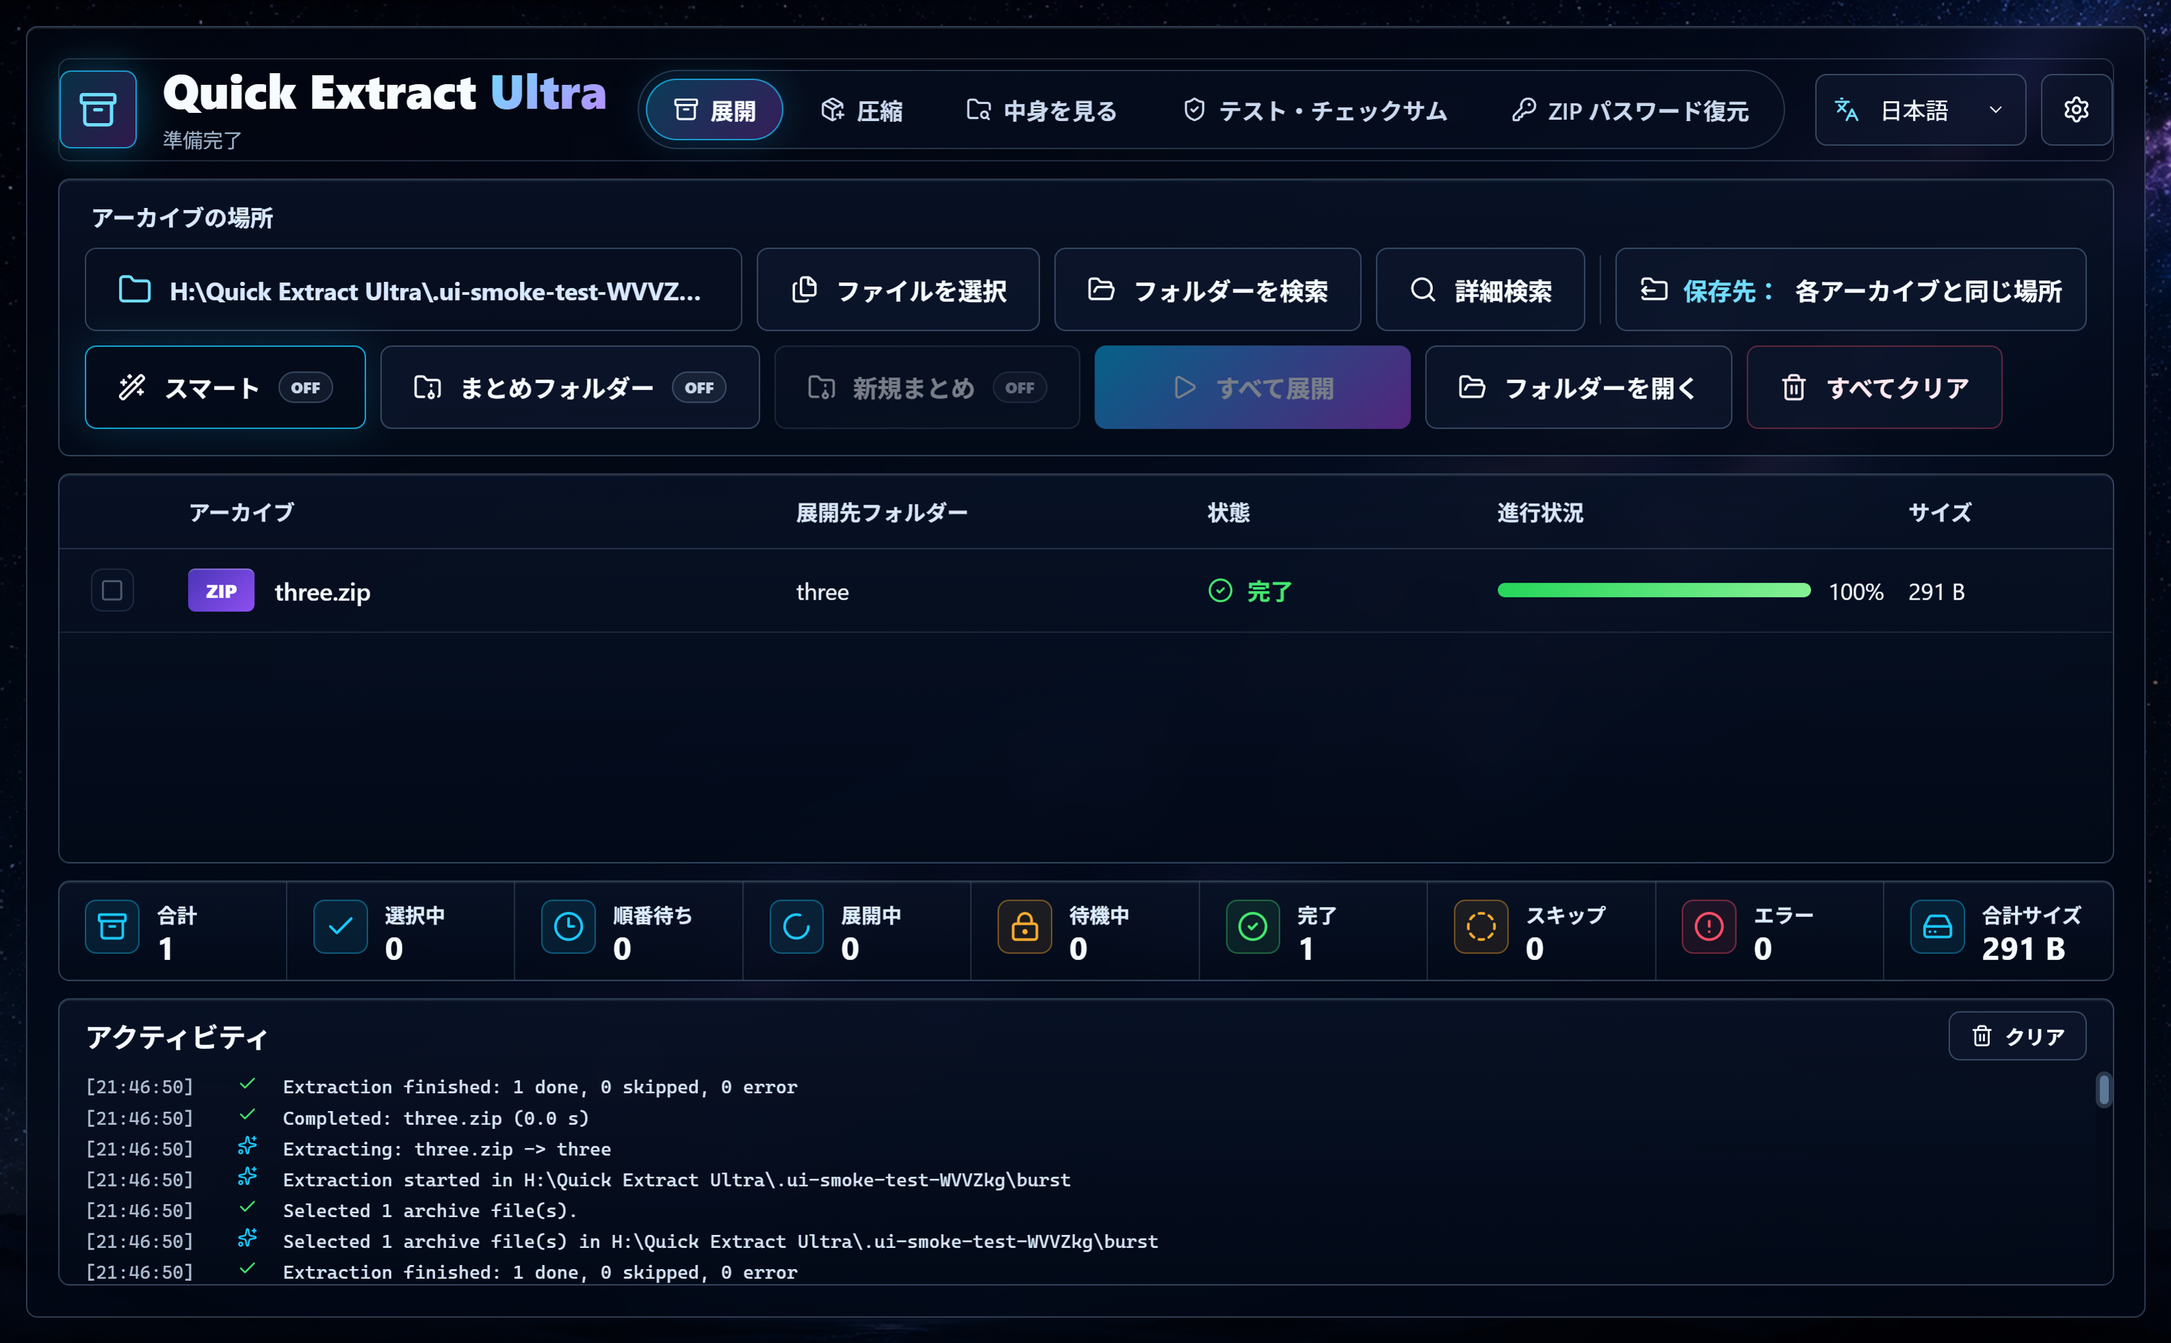
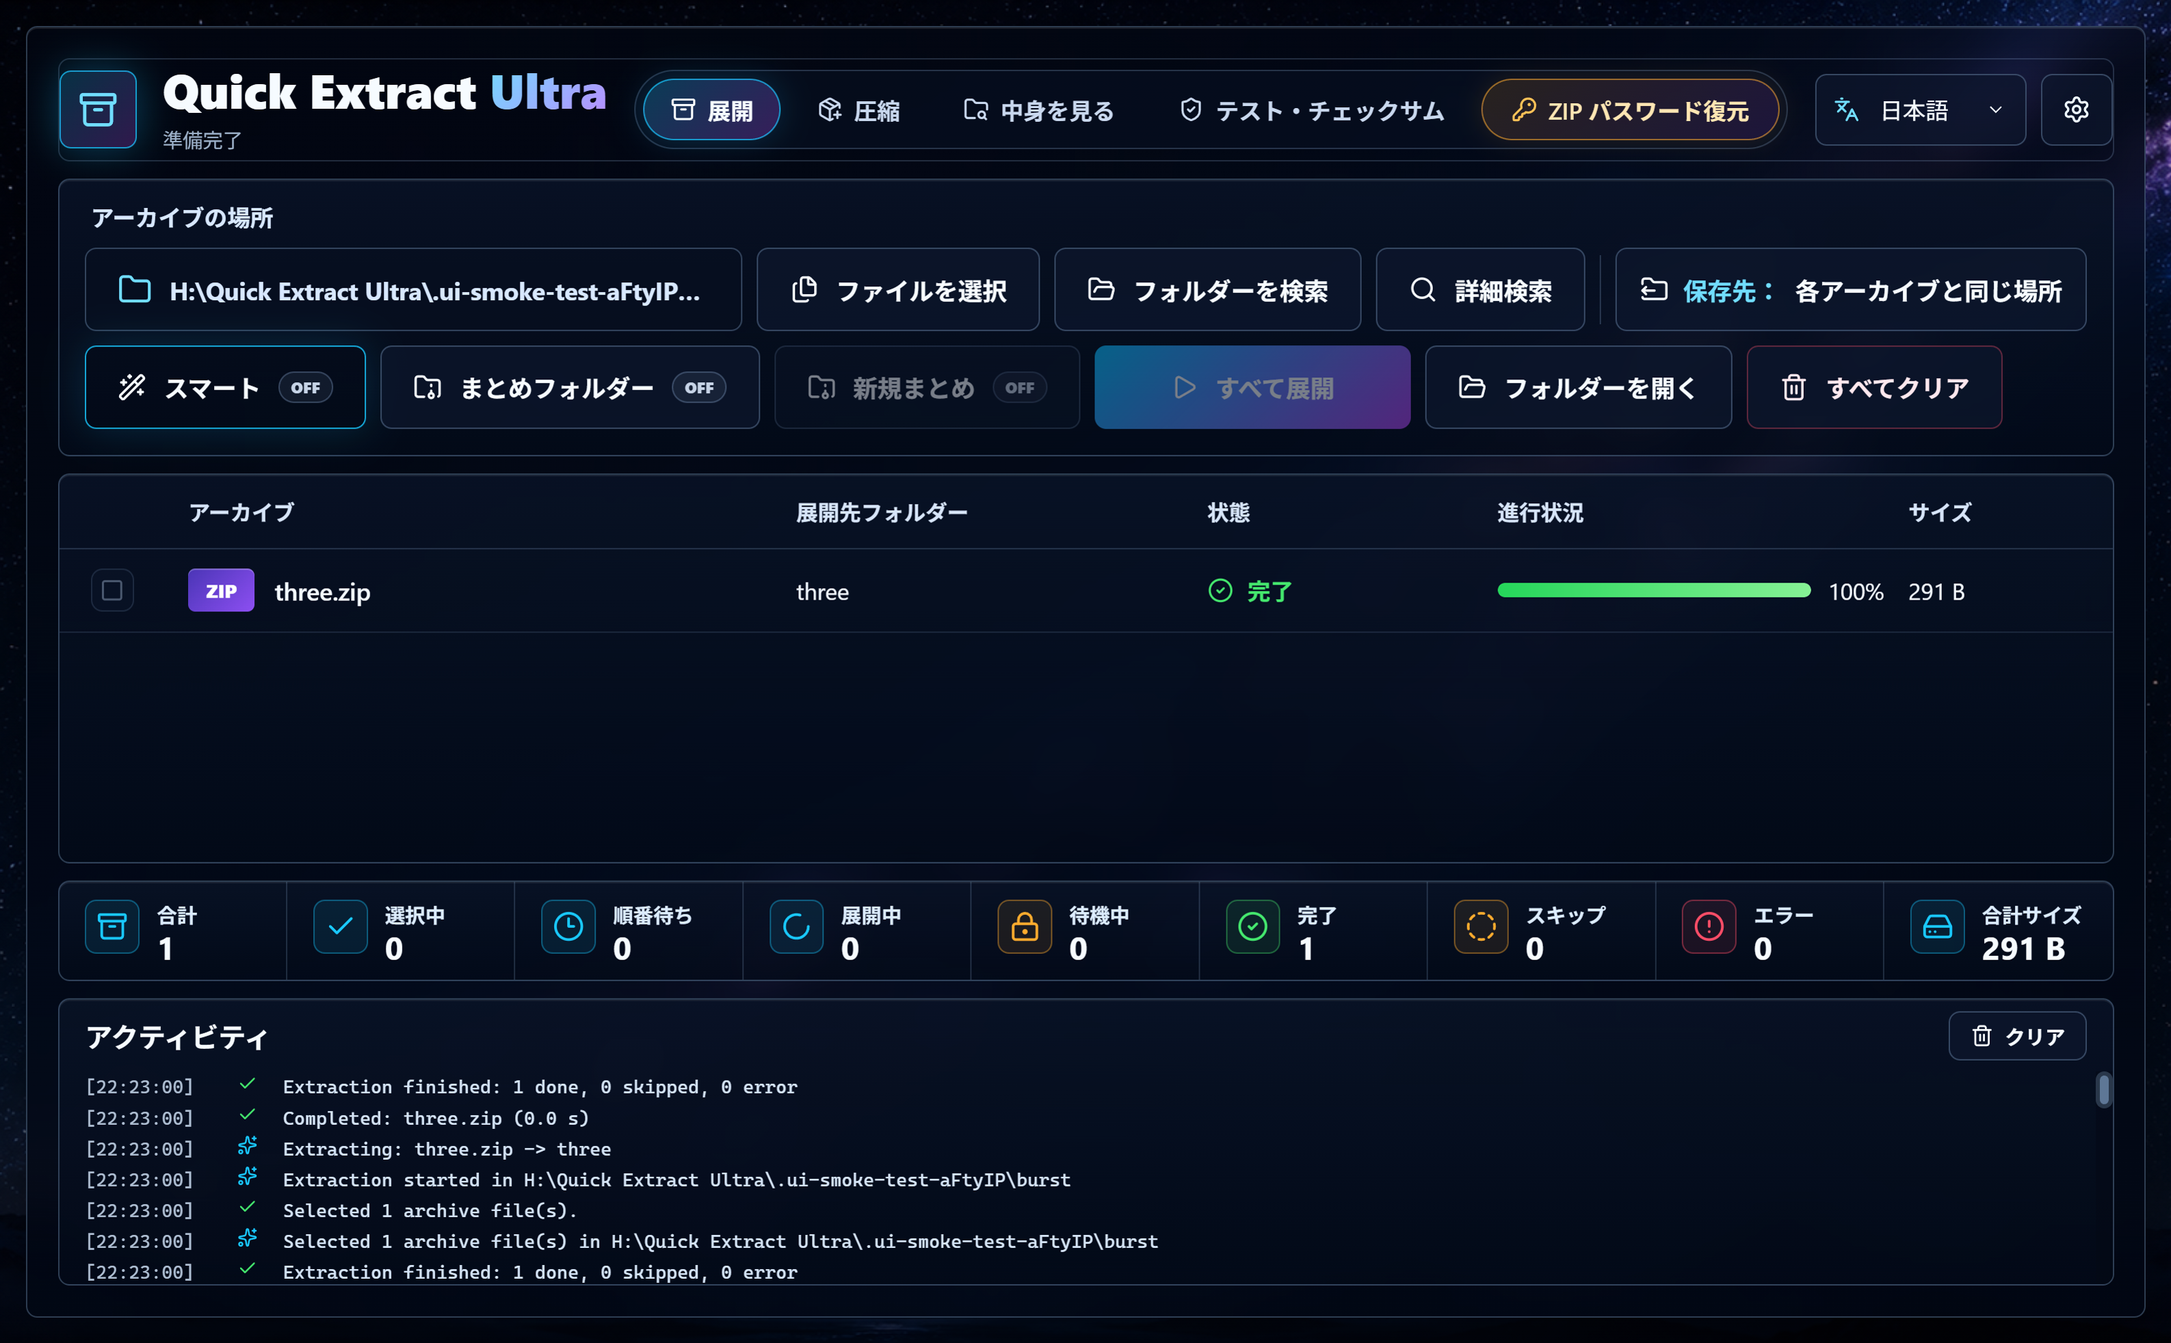
Recovery: first-run setup screen, highlighted tab, auto-download all
- Highlight the "Recover ZIP password" tab (amber frame, key icon).
- First-run (no tools yet): show a setup screen with "Download all
  automatically", "Add them myself", and a (?) explaining why the tools
  are needed and how to download safely, instead of the full UI.
- Auto-download now covers all three tools from their OFFICIAL sources
  over HTTPS: bkcrack via its GitHub release (SHA-256 verified against
  GitHub's digest), hashcat (hashcat.net) and John (openwall.com) via
  their official download pages. Those two publish a PGP signature, not
  a machine-checkable checksum, so they are not checksum-gated; the
  SHA-256 is recorded for the user to verify later. Manual stays available.

Verified: real John 1.9.0-jumbo-1 auto-download + extract + detect from
openwall.com; scrape resolvers; 42/42 tests; UI smoke test.

diff --git a/src/RecoverView.tsx b/src/RecoverView.tsx
@@ -7,9 +7,11 @@ import {
   ClipboardCopy,
   Cpu,
   Download,
+  DownloadCloud,
   ExternalLink,
   FileKey,
   FolderOpen,
+  HelpCircle,
   Key,
   KeyRound,
   LoaderCircle,
@@ -17,6 +19,8 @@ import {
   Play,
   ShieldAlert,
   Square,
+  Wrench,
+  X,
   Zap
 } from 'lucide-react';
 import { useT, type Translate } from './i18n';
@@ -81,6 +85,12 @@ export default function RecoverView({ addLog }: Props) {
   const [copied, setCopied] = useState(false);
   const extractedRef = useRef('');
 
+  const [manualChosen, setManualChosen] = useState(false);
+  const [settingUp, setSettingUp] = useState(false);
+  const [setupProgress, setSetupProgress] = useState<{ toolId: string; phase: string; percent: number } | null>(null);
+  const [setupSummary, setSetupSummary] = useState('');
+  const [showInfo, setShowInfo] = useState(false);
+
   const refreshTools = async () => {
     const result = await window.quickExtract.listTools();
     if (result.ok) {
@@ -91,8 +101,9 @@ export default function RecoverView({ addLog }: Props) {
 
   useEffect(() => { void refreshTools(); }, []);
   useEffect(() => window.quickExtract.onToolProgress((event) => {
-    if (event.toolId === downloading) setDownloadProgress({ phase: event.phase, percent: event.percent });
-  }), [downloading]);
+    setDownloadProgress({ phase: event.phase, percent: event.percent });
+    setSetupProgress({ toolId: event.toolId, phase: event.phase, percent: event.percent });
+  }), []);
 
   useEffect(() => window.quickExtract.onRecoveryEvent((event: RecoveryEvent) => {
     switch (event.type) {
@@ -159,6 +170,26 @@ export default function RecoverView({ addLog }: Props) {
     }
   };
 
+  const autoSetup = async () => {
+    setSettingUp(true);
+    setSetupSummary('');
+    setSetupProgress(null);
+    setMessage('');
+    const result = await window.quickExtract.setupAllTools(true);
+    setSettingUp(false);
+    if (result.ok) {
+      const added = result.value.filter((r) => r.ok && !r.skipped);
+      const failed = result.value.filter((r) => !r.ok);
+      setSetupSummary(t('recover.setupSummary', { added: added.length, failed: failed.length }));
+      if (added.length) addLog('done', t('recover.setupDone', { names: added.map((r) => r.toolId).join(', ') }));
+      if (failed.length) addLog('error', t('recover.setupFailed', { names: failed.map((r) => r.toolId).join(', ') }));
+      await refreshTools();
+    } else {
+      setMessage(result.message);
+      addLog('error', result.message);
+    }
+  };
+
   const start = async () => {
     setFound(null);
     setMessage('');
@@ -205,9 +236,71 @@ export default function RecoverView({ addLog }: Props) {
   const anyToolReady = Boolean(tool('john')?.installed) || canBkcrack;
 
   const progressPercent = progress.percent != null ? Math.max(0, Math.min(100, progress.percent)) : null;
+  const anyInstalled = Boolean(toolList?.tools.some((item) => item.installed));
+  const showSetup = Boolean(toolList) && !anyInstalled && !manualChosen;
+
+  const infoModal = showInfo && (
+    <div className="recover-modal-backdrop" onClick={() => setShowInfo(false)}>
+      <div className="recover-modal" role="dialog" aria-modal="true" onClick={(event) => event.stopPropagation()}>
+        <header className="picker-header">
+          <h2><HelpCircle size={20} className="accent-icon" />{t('recover.infoTitle')}</h2>
+          <button type="button" onClick={() => setShowInfo(false)} aria-label={t('common.close')}><X /></button>
+        </header>
+        <div className="recover-modal-body">
+          <h3>{t('recover.infoWhyTitle')}</h3>
+          <p>{t('recover.infoWhy')}</p>
+          <h3>{t('recover.infoSafetyTitle')}</h3>
+          <p>{t('recover.infoSafety')}</p>
+          <ul className="muted">
+            {toolList?.tools.map((item) => (
+              <li key={item.id}><strong>{item.name}</strong> ({item.license}) — {item.page}</li>
+            ))}
+          </ul>
+          <p className="muted small-print">{t('recover.infoAutoNote')}</p>
+        </div>
+      </div>
+    </div>
+  );
+
+  if (showSetup) {
+    return (
+      <div className="recover-view setup">
+        <p className="ownership-note" role="note"><ShieldAlert size={18} />{t('recover.ownership')}</p>
+        <section className="recover-setup">
+          <KeyRound size={46} className="accent-icon" />
+          <h2>{t('recover.setupTitle')}</h2>
+          <p className="setup-intro">{t('recover.setupIntro')}</p>
+          <div className="setup-choices">
+            <button className="primary-button wide setup-auto" type="button" data-action="setup-auto" onClick={() => void autoSetup()} disabled={settingUp}>
+              {settingUp ? <LoaderCircle size={20} className="spin" /> : <DownloadCloud size={20} />}
+              {t('recover.setupAuto')}
+            </button>
+            <button className="secondary-button setup-manual" type="button" onClick={() => setManualChosen(true)} disabled={settingUp}>
+              <Wrench size={18} />{t('recover.setupManual')}
+            </button>
+            <button className="icon-button info-button" type="button" onClick={() => setShowInfo(true)} aria-label={t('recover.infoTitle')} title={t('recover.infoTitle')}>
+              <HelpCircle size={22} />
+            </button>
+          </div>
+          <p className="setup-sizes muted">{toolList?.tools.map((item) => `${item.name} ~${item.approxSizeMb} MB`).join(' · ')}</p>
+          <p className="setup-auto-note muted small-print">{t('recover.autoRiskNote')}</p>
+          {settingUp && setupProgress && (
+            <div className="setup-progress">
+              <div className="status-line"><LoaderCircle size={16} className="spin" /><span>{t('recover.setupDownloading', { name: setupProgress.toolId })} · {t(`recover.phase.${setupProgress.phase || 'download'}`, { percent: String(setupProgress.percent) })}</span></div>
+              <div className="progress-cell wide"><span className="progress-track"><span className="progress-fill" style={{ width: `${setupProgress.percent}%` }} /></span><span>{setupProgress.percent}%</span></div>
+            </div>
+          )}
+          {setupSummary && <p className="good-text">{setupSummary}</p>}
+          {message && <p className="picker-error" role="alert">{message}</p>}
+        </section>
+        {infoModal}
+      </div>
+    );
+  }
 
   return (
     <div className="recover-view">
+      {infoModal}
       <p className="ownership-note" role="note">
         <ShieldAlert size={18} />
         {t('recover.ownership')}
@@ -217,9 +310,17 @@ export default function RecoverView({ addLog }: Props) {
         <section className="tool-panel recover-tools" aria-label={t('recover.toolsTitle')}>
           <div className="panel-header">
             <h2><KeyRound size={20} className="accent-icon" />{t('recover.toolsTitle')}</h2>
-            <button className="secondary-button compact" type="button" onClick={() => void window.quickExtract.openToolsFolder()}>
-              <FolderOpen size={18} />{t('recover.openToolsFolder')}
-            </button>
+            <div className="panel-actions">
+              {!anyInstalled && (
+                <button className="secondary-button compact" type="button" onClick={() => void autoSetup()} disabled={settingUp}>
+                  {settingUp ? <LoaderCircle size={18} className="spin" /> : <DownloadCloud size={18} />}{t('recover.setupAutoShort')}
+                </button>
+              )}
+              <button className="icon-button small" type="button" onClick={() => setShowInfo(true)} aria-label={t('recover.infoTitle')} title={t('recover.infoTitle')}><HelpCircle size={18} /></button>
+              <button className="secondary-button compact" type="button" onClick={() => void window.quickExtract.openToolsFolder()}>
+                <FolderOpen size={18} />{t('recover.openToolsFolder')}
+              </button>
+            </div>
           </div>
           <p className="muted">{t('recover.toolsHint')}</p>
           {toolList?.tools.map((item) => (

diff --git a/src/App.css b/src/App.css
@@ -1945,3 +1945,71 @@ input:focus-visible,
 @media (max-width: 1100px) {
   .recover-grid { grid-template-columns: minmax(0, 1fr); grid-auto-rows: minmax(0, auto); }
 }
+
+/* The recovery tab stands apart from the plain tools. */
+.tab-button.tab-special {
+  padding: 9px 20px;
+  color: #ffe6b3;
+  border-color: rgba(255, 171, 46, 0.55);
+  background: linear-gradient(135deg, rgba(255, 171, 46, 0.14), rgba(169, 72, 232, 0.14));
+  box-shadow: 0 0 18px rgba(255, 171, 46, 0.12);
+}
+
+.tab-button.tab-special svg { color: #ffc257; }
+
+.tab-button.tab-special.active {
+  color: #fff6e6;
+  border-color: rgba(255, 193, 87, 0.95);
+  background: linear-gradient(135deg, rgba(255, 171, 46, 0.34), rgba(169, 72, 232, 0.4));
+  box-shadow: 0 0 26px rgba(255, 171, 46, 0.3);
+}
+
+.recover-setup {
+  display: grid;
+  justify-items: center;
+  align-content: center;
+  gap: 14px;
+  min-height: 0;
+  padding: 32px;
+  text-align: center;
+  border: 1px solid rgba(255, 171, 46, 0.3);
+  border-radius: var(--radius);
+  background: linear-gradient(180deg, rgba(9, 18, 38, 0.86), rgba(3, 10, 24, 0.76));
+}
+
+.recover-setup h2 { margin: 0; font-size: 26px; }
+.setup-intro { max-width: 620px; margin: 0; color: var(--muted); font-size: 15px; line-height: 1.6; }
+.setup-choices { display: flex; align-items: center; gap: 12px; flex-wrap: wrap; justify-content: center; margin-top: 6px; }
+.setup-auto { min-width: 280px; width: auto; }
+.setup-manual { min-width: 0; height: 50px; padding: 0 22px; display: inline-flex; align-items: center; gap: 8px; cursor: pointer; }
+.info-button { width: 50px; height: 50px; border-radius: 999px; }
+.setup-sizes { margin: 0; font-size: 13px; }
+.setup-auto-note { max-width: 680px; margin: 0; line-height: 1.5; }
+.setup-progress { width: min(560px, 100%); display: grid; gap: 8px; margin-top: 8px; }
+
+.recover-modal-backdrop {
+  position: fixed;
+  inset: 0;
+  z-index: 60;
+  display: grid;
+  place-items: center;
+  padding: 24px;
+  background: rgba(0, 3, 12, 0.72);
+  backdrop-filter: blur(4px);
+}
+
+.recover-modal {
+  width: min(680px, 100%);
+  max-height: 86vh;
+  overflow-y: auto;
+  border: 1px solid var(--line-strong);
+  border-radius: var(--radius);
+  background: #081226;
+  box-shadow: var(--shadow);
+}
+
+.recover-modal .picker-header { padding: 18px 22px; border-bottom: 1px solid var(--line); }
+.recover-modal-body { display: grid; gap: 10px; padding: 18px 22px 24px; }
+.recover-modal-body h3 { margin: 6px 0 0; font-size: 16px; color: var(--cyan-soft); }
+.recover-modal-body p { margin: 0; line-height: 1.6; }
+.recover-modal-body ul { margin: 2px 0; padding-left: 20px; display: grid; gap: 4px; overflow-wrap: anywhere; }

diff --git a/src/types.d.ts b/src/types.d.ts
@@ -248,6 +248,7 @@ declare global {
       openToolPage: (url: string) => Promise<void>;
       openToolsFolder: () => Promise<string>;
       downloadTool: (toolId: string, consent: boolean) => Promise<TaskResult<{ verified: boolean; sha256: string; checksumPublished: boolean; version: string; source: string }>>;
+      setupAllTools: (consent: boolean) => Promise<TaskResult<Array<{ toolId: string; ok: boolean; skipped?: boolean; verified?: boolean; sha256?: string; message?: string }>>>;
       onToolProgress: (callback: (event: ToolProgress) => void) => () => void;
       inspectZip: (zipPath: string) => Promise<TaskResult<ZipInspection>>;
       startRecovery: (options: RecoveryOptions) => Promise<TaskResult<boolean>>;

diff --git a/src/App.tsx b/src/App.tsx
@@ -713,7 +713,7 @@ function Workspace({ settings, onSettingsChange }: WorkspaceProps) {
               <button
                 key={id}
                 type="button"
-                className={`tab-button ${tab === id ? 'active' : ''}`}
+                className={`tab-button ${tab === id ? 'active' : ''} ${id === 'recover' ? 'tab-special' : ''}`}
                 aria-current={tab === id ? 'page' : undefined}
                 onClick={() => setTab(id)}
               >

diff --git a/CHANGELOG.md b/CHANGELOG.md
@@ -17,14 +17,15 @@ Version notes are required for every future app change. Each release should reco
   - **bkcrack** (zlib) for a legacy ZipCrypto archive when you still have one original file from inside it (fastest).
   - **hashcat** (MIT) on the GPU for AES ZIPs, John the Ripper jumbo (GPLv2+) on the CPU otherwise; wordlist first, then brute force by chosen charset/length.
   - The hash itself is read with John's `zip2john`, so John is the base tool; hashcat is an optional GPU accelerator; bkcrack is the standalone fast path.
+  - The recovery tab is visually set apart (amber frame, key icon, larger) from the plain tool tabs. When no tool is installed the tab opens a **first-run setup screen** (**Download all automatically**, **Add them myself**, and a circular **(?)** explaining why the tools are needed and how to download safely); the full UI appears once a tool is present.
   - UI: choose ZIP, known-file picker for ZipCrypto, wordlist selector (a small `common-passwords.txt` ships with the app), brute-force charset/length, device choice, progress with speed and ETA, Pause/Resume (via hashcat/John restore sessions) and Cancel, the found password with copy, and "Extract now".
-  - Tools are **not bundled**. Each has an opt-in automatic download (consent box with name, license, size and official source; SHA-256 verified against the source's published digest, discarded on mismatch) and an always-available manual button to the official page. The app never re-hosts the files; downloads go to `%APPDATA%\quick-extract-ultra	ools\`. Only bkcrack currently offers a verified automatic download; hashcat and John are manual, with the reason shown.
+  - Tools are **not bundled** and never re-hosted; downloads go to `%APPDATA%\quick-extract-ultra\tools\`. **Automatic download** fetches the latest version of each tool from its **official source** over HTTPS (bkcrack from its GitHub release, hashcat from hashcat.net, John from openwall.com). bkcrack is checksum-verified against GitHub’s published digest (discarded on mismatch); hashcat and John publish a PGP signature rather than a machine-checkable checksum, so those are trusted to their official HTTPS host and the SHA-256 is recorded for the user to verify later, not gated. A manual button to each official page is always available.
 - Two more interface languages: **Simplified Chinese (简体中文)** and **Traditional Chinese (繁體中文)**, as separate options. The app now has five languages.
 
 ### Verified
 
 - `npm test` 42/42 (adds recovery: output parsers for hashcat/John/bkcrack, charset/length helpers, no-verified-auto-download for hashcat/John, tool detection under `tools/<id>/`, engine routing AES→hashcat and ZipCrypto→John and bkcrack with a known file, unprotected-ZIP rejection, Cancel, the bundled wordlist, and that all five locales share the same keys and placeholders).
-- Real end-to-end checks on this machine: auto-downloaded bkcrack 1.8.1 from its official GitHub release, verified its published SHA-256, extracted and detected it; then recovered the real password of a ZipCrypto archive from a known plaintext file, through the engine, with live progress.
+- Real end-to-end checks on this machine: auto-downloaded bkcrack 1.8.1 from its official GitHub release, verified its published SHA-256, extracted and detected it; then recovered the real password of a ZipCrypto archive from a known plaintext file, through the engine, with live progress; and auto-downloaded John 1.9.0-jumbo-1 from openwall.com (official page scraped for the current Windows build), extracted and detected it with its zip2john.
 - `npm run typecheck`, `npm run build`; `npm run test:ui` adds a check for five languages and the recovery tab.
 
 ### Package
